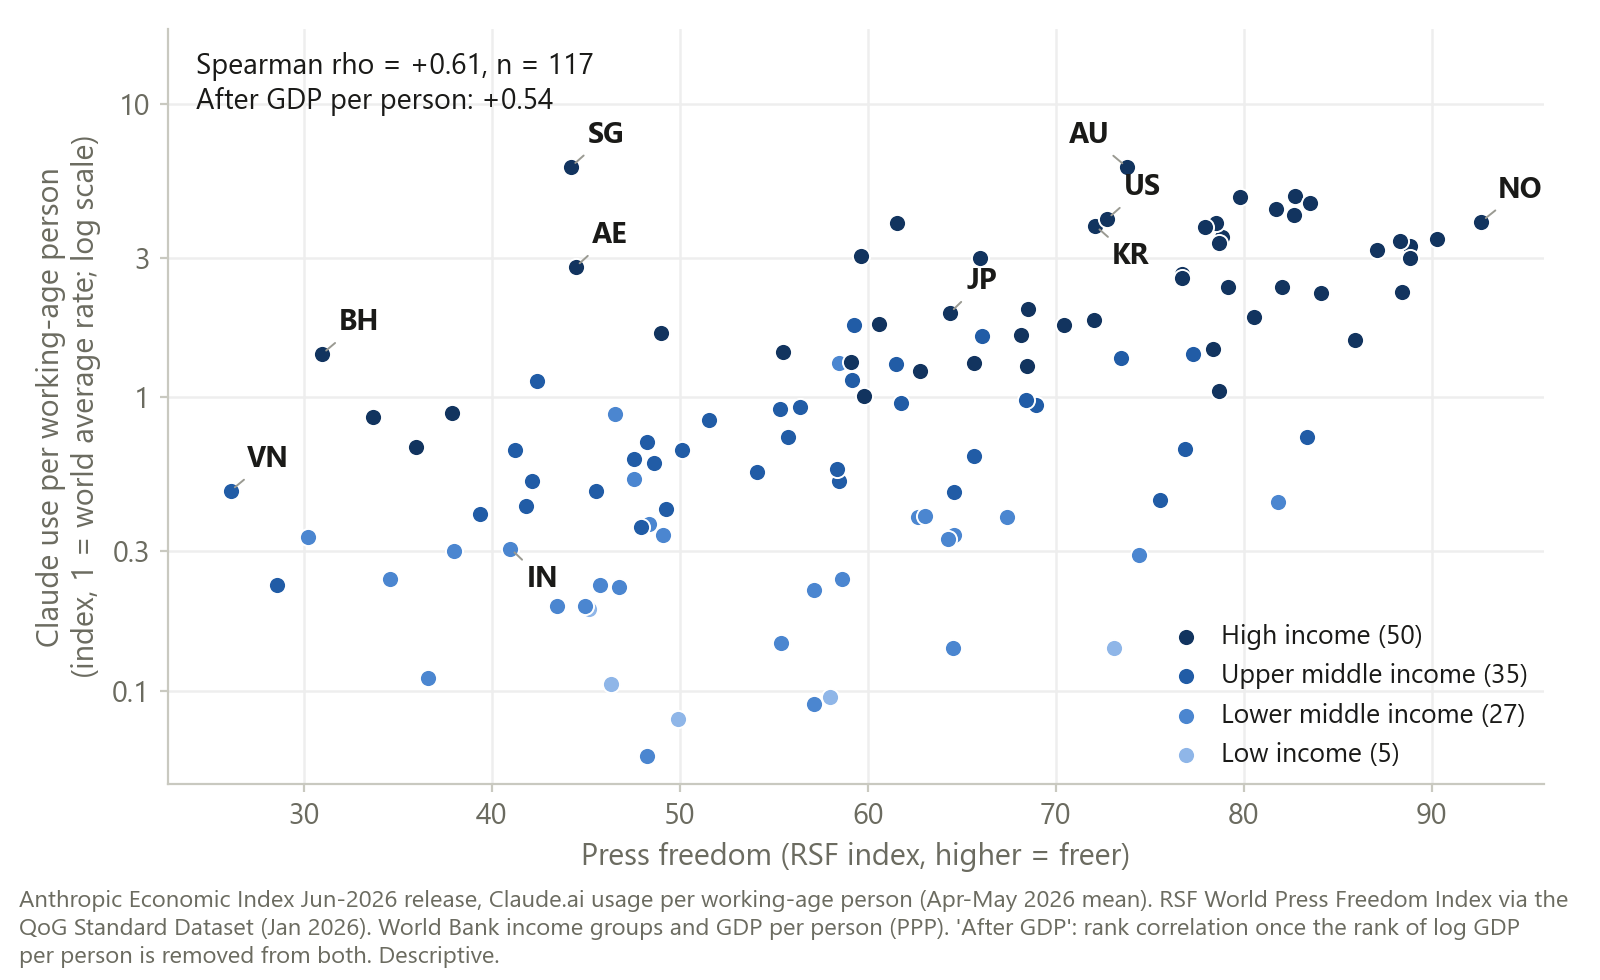
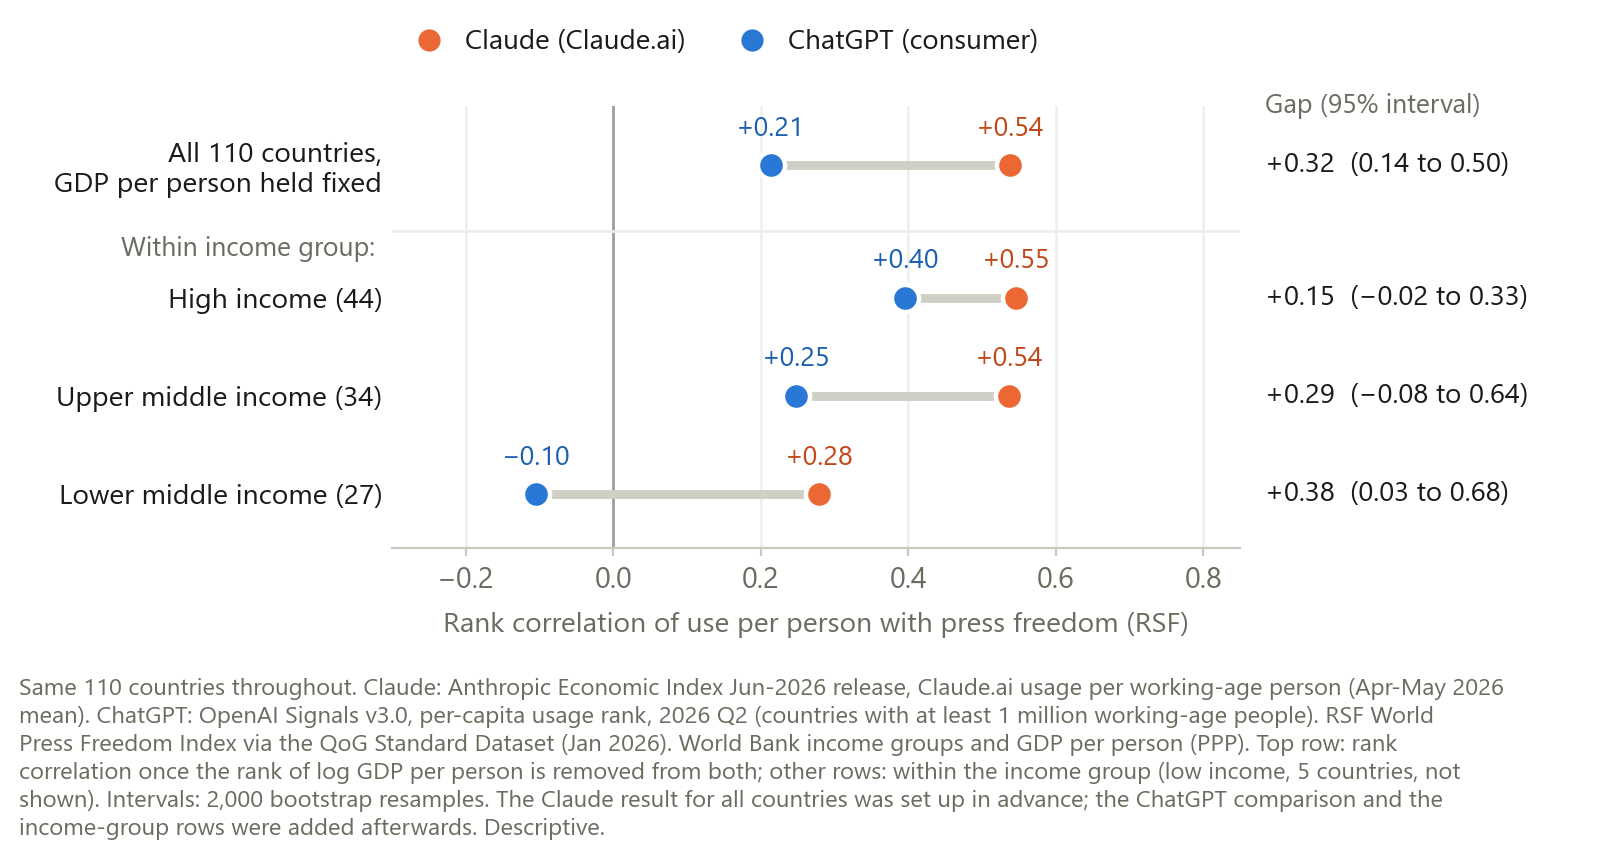
fix: show the ChatGPT side of the press freedom comparison
The fact is titled "Claude follows press freedom more than ChatGPT
does", but its chart showed Claude only. A two-panel scatter did not
help either: use of both tracks GDP per person closely, so both panels
rise in the same way (raw 0.59 vs 0.47) and the difference sits with
income held fixed.

The chart is now a dumbbell on the same 110 countries: Claude vs
ChatGPT rank correlation with press freedom after GDP (0.54 vs 0.21,
gap interval 0.14 to 0.50) and within the high, upper-middle and
lower-middle income groups. The text says the income-group gaps are
less certain (two of three intervals include zero), and the chart note
says the ChatGPT comparison and the income-group rows were added after
the pre-registered Claude result.

diff --git a/ai-usage.html b/ai-usage.html
@@ -226,20 +226,24 @@
     <p class="fact-text">
       Claude use per working-age person is higher in countries with a freer
       press: rank correlation +0.61 across 117 countries (Reporters Without
-      Borders index), and +0.54 after accounting for GDP per person. It holds
-      within the high and upper-middle income groups. Lower corruption (+0.49)
-      and higher PISA scores (+0.46) point the same way after GDP. These
-      measures are correlated with one another (about +0.6 to +0.8), so read
-      them as one broad pattern. ChatGPT use also rises with press freedom, but
-      much less: on the same 110 countries it is +0.21 after GDP, against
-      +0.54 for Claude (the 95% interval for the gap runs from 0.14 to 0.50).
-      Claude.ai is not offered in some countries, but none of them are in this
-      sample, so availability does not explain it. Singapore is the clear
-      exception: among the highest Claude use, with a low press-freedom score.
+      Borders index), and +0.54 after accounting for GDP per person. Lower
+      corruption (+0.49) and higher PISA scores (+0.46) point the same way
+      after GDP. These measures are correlated with one another (about +0.6 to
+      +0.8), so read them as one broad pattern. ChatGPT use also rises with
+      press freedom, but much less once income is taken into account. Use of
+      both tracks GDP per person closely, so the difference shows only when
+      countries of similar income are compared. On the 110 countries with both
+      measures, it is +0.21 for ChatGPT after GDP, against +0.54 for Claude
+      (the 95% interval for the gap runs from 0.14 to 0.50). Claude is also
+      ahead within each income group, though each group is small and for two
+      of the three the interval includes zero. Claude.ai is not offered in
+      some countries, but none of them are in this sample, so availability
+      does not explain it. Singapore is the clear exception: the highest use of
+      both, with a low press-freedom score.
     </p>
     <figure class="fact-fig">
-      <img src="assets/ai-usage/c20_claude_press_freedom.png" width="1600" height="980" loading="lazy" decoding="async"
-           alt="Scatter of 117 countries: Claude use per person is higher where the press is freer (rank correlation +0.61, +0.54 after GDP per person). Points are shaded by income group, and the pattern holds within the high and upper-middle income groups. Singapore is the clear exception: among the highest Claude use with a low press-freedom score." />
+      <img src="assets/ai-usage/c20_claude_press_freedom.png" width="1600" height="850" loading="lazy" decoding="async"
+           alt="Dumbbell chart comparing how closely Claude and ChatGPT use per person follow press freedom (rank correlation with the RSF index) on the same 110 countries. With GDP per person held fixed: Claude +0.54, ChatGPT +0.21. Within income groups: high income +0.55 versus +0.40; upper middle income +0.54 versus +0.25; lower middle income +0.28 versus −0.10. Claude is higher in every row; within single income groups the gap is less certain (27 to 44 countries each)." />
     </figure>
   </div>
 
